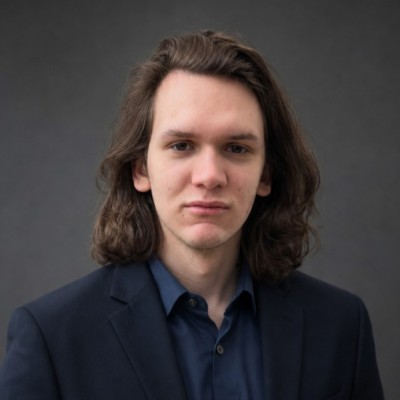
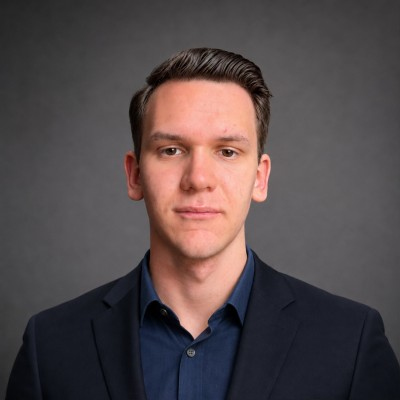
feat: update resume, headshot, and add Dynamic Geospatial Object Search project

diff --git a/frontend/src/App.jsx b/frontend/src/App.jsx
@@ -1008,6 +1008,14 @@ const css = `
 // ─── Data (edit these to personalize) ─────────────────────────────────────────
 const PROJECTS = [
   {
+    icon: "🛰",
+    title: "Dynamic Geospatial Object Search",
+    desc: "A C++/Python satellite imagery search system that detects arbitrary objects from text or reference images using embeddings, ANN search, VLM verification, and on-demand imagery retrieval.",
+    tags: ["C++", "Python", "Embeddings", "VLMs"],
+    demo: "",
+    code: "https://github.com/tylerlammey/Dynamic-Geospatial-Object-Search",
+  },
+  {
     icon: "🤖",
     title: "TylerGPT AI Agent",
     desc: "A conversational AI assistant integrated directly into this portfolio page. Combines a React frontend streaming parser with a FastAPI backend acting as a context-aware resume agent.",
@@ -1030,14 +1038,6 @@ const PROJECTS = [
     tags: ["Quantum Computing", "NMR", "Academic Research"],
     demo: "/nmr_qubits_paper.pdf",
     code: "",
-  },
-  {
-    icon: "⚓",
-    title: "UTUX Underwater Exploration Website",
-    desc: "Developed the entire backend API and collaborated on the frontend interface for the University of Toronto Underwater Exploration (UTUX) student design club website.",
-    tags: ["FastAPI", "React", "SQL", "Web API"],
-    demo: "",
-    code: "https://github.com/U-of-T-Underwater-Exploration/website",
   },
 ];
 

diff --git a/backend/me/context.md b/backend/me/context.md
@@ -98,7 +98,7 @@ I'm most interested in:
 ## Technical Skills
 * **Programming Languages:** Python, C++, MATLAB, C, JavaScript, TypeScript, HTML, SQL, Bash
 * **Software & Frameworks:** Linux, Angular, FastAPI, Google Cloud Platform (GCP), Arduino, LTSpice, Siemens NX, Git, React, OpenCV, NumPy, Pandas, Matplotlib, Docker, REST APIs, PyTorch, Hugging Face, Jupyter Notebooks
-* **AI/ML:** Deep Learning, Object Detection & Segmentation (SAM), OpenAI API, LLM Tool Calling, Prompt Engineering
+* **AI/ML:** Deep Learning, Object Detection & Segmentation (SAM), OpenAI API, LLM Tool Calling, Prompt Engineering, Vector Search, Vision-Language Models (VLMs), Image Embeddings
 * **Core Competencies:** RF/Radar Engineering, Embedded Systems, IoT, Network Testing (TCP/UDP), Waveform Analysis, Automation, SCPI, Ethernet, SPI, PWM
 * **Clearance:** Secret clearance
 
@@ -205,6 +205,19 @@ I'm most interested in:
 ---
 
 ## Projects
+
+### Dynamic Geospatial Object Search
+* **Status / Timeline:** In Progress (Fall 2026) | Capstone / Independent Project
+* **Technologies:** C++, Python, Vector Embeddings, Approximate Nearest Neighbor (ANN) Search, Vision-Language Models (VLMs), Computer Vision, Satellite / Geospatial Imagery
+* **Overview:** Satellite imagery is widely available, but many object search systems are limited to a fixed set of pre-trained object classes. This project builds a system that enables users to dynamically search satellite imagery for arbitrary objects specified through text descriptions, reference images, or both, with optional physical size constraints and geographic regions, plotting candidate detections on an interactive map.
+* **Architecture & Multi-Stage Retrieval Pipeline:**
+  - **Offline Tiling & Embedding:** Ingests satellite imagery and embeds tiles offline using a domain-adapted image embedding model.
+  - **Zero Raw-Imagery Storage:** Raw imagery is discarded after embedding to eliminate massive storage requirements; only compact vector embeddings and metadata (imagery identifiers and pixel windows) are stored.
+  - **Runtime Query & Fast ANN Retrieval:** At query time, the user's text and/or reference image is embedded and used for Approximate Nearest Neighbor (ANN) search across stored embeddings to identify candidate tiles.
+  - **On-Demand Pixel Re-Fetching:** Candidate tiles are re-fetched on demand from public satellite imagery sources using the stored identifiers and pixel windows.
+  - **Two-Stage VLM Verification & Grounding:** Re-fetched tiles pass through a fast small-VLM filtering stage followed by a larger VLM verification and grounding stage, outputting high-confidence bounding boxes.
+  - **Physical Size Estimation:** Calculates estimated physical dimensions of detected objects from bounding box pixel dimensions and the satellite imagery's ground sampling distance (GSD).
+  - **Systems & Hardware Efficiency:** Built to run entirely locally on a standard desktop computer equipped with a consumer GPU (16 GB VRAM) using open-weight pretrained models (no training required for v1). High-throughput systems components (imagery tiling, spatial queries, ANN indexing, on-demand pixel retrieval, geometry, and orchestration) are implemented in C++, paired with a Python ML inference service and interactive map UI.
 
 ### TylerGPT (AI Portfolio Agent)
 * **Technologies:** Python, FastAPI, React, OpenAI API
